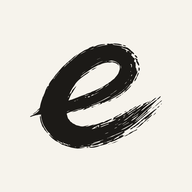
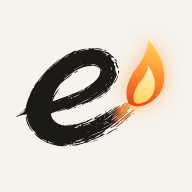
wip: idle autocommit 2026-11-13 20:33:41
Committed automatically after 60s idle by the Stop hook.
Session: 5916c143-eac1-4d57-ac3f-21390d6c581c

Changed region(s): [[0.0938, 0.2188, 0.9062, 0.7812]]

diff --git a/apps/mobile/src/lib/markLit.ts b/apps/mobile/src/lib/markLit.ts
@@ -1,2 +1,2 @@
-export const markLitViewBox = "-40 -80 720 720";
-export const markLitTemplate = "<svg viewBox=\"-40 -80 720 720\" xmlns=\"http://www.w3.org/2000/svg\"><defs><linearGradient id=\"__ID__g\" gradientUnits=\"userSpaceOnUse\" x1=\"470\" y1=\"430\" x2=\"576\" y2=\"318\"><stop offset=\"0\" stop-color=\"#e8461e\"/><stop offset=\"0.45\" stop-color=\"#ff8a2b\"/><stop offset=\"1\" stop-color=\"#ffd25a\"/></linearGradient><linearGradient id=\"__ID__t\" gradientUnits=\"userSpaceOnUse\" x1=\"445\" y1=\"0\" x2=\"495\" y2=\"0\"><stop offset=\"0\" stop-color=\"#000\"/><stop offset=\"1\" stop-color=\"#fff\"/></linearGradient><mask id=\"__ID__c\"><rect x=\"0\" y=\"290\" width=\"600\" height=\"310\" fill=\"url(#__ID__t)\"/></mask><mask id=\"__ID__m\"><g fill=\"#fff\">__MARK__</g></mask><linearGradient id=\"__ID__fl\" gradientUnits=\"userSpaceOnUse\" x1=\"560\" y1=\"336\" x2=\"600\" y2=\"180\"><stop offset=\"0\" stop-color=\"#e8461e\"/><stop offset=\".45\" stop-color=\"#ff8a2b\"/><stop offset=\"1\" stop-color=\"#ffd25a\"/></linearGradient><linearGradient id=\"__ID__co\" gradientUnits=\"userSpaceOnUse\" x1=\"570\" y1=\"332\" x2=\"596\" y2=\"242\"><stop offset=\"0\" stop-color=\"#ffd25a\"/><stop offset=\"1\" stop-color=\"#fff4c2\"/></linearGradient><filter id=\"__ID__b\" x=\"-100%\" y=\"-100%\" width=\"300%\" height=\"300%\"><feGaussianBlur stdDeviation=\"22\"/></filter><filter id=\"__ID__s\" x=\"-100%\" y=\"-100%\" width=\"300%\" height=\"300%\"><feGaussianBlur stdDeviation=\"9\"/></filter></defs><rect width=\"600\" height=\"600\" fill=\"__INK__\" mask=\"url(#__ID__m)\"/><g mask=\"url(#__ID__c)\"><rect width=\"600\" height=\"600\" fill=\"url(#__ID__g)\" mask=\"url(#__ID__m)\"/></g><ellipse cx=\"566\" cy=\"328\" rx=\"34\" ry=\"22\" transform=\"rotate(-38 566 328)\" fill=\"#ffd25a\" opacity=\".85\" filter=\"url(#__ID__s)\"/><g transform=\"translate(560 334) scale(1.85) translate(-566 -336)\"><path d=\"M548 332C534 300 552 266 572 240C586 222 594 200 596 178C622 208 640 246 634 282C630 310 608 330 584 338C570 342 556 340 548 332Z\" fill=\"#ff8a2b\" opacity=\".55\" filter=\"url(#__ID__b)\"/><path d=\"M548 332C534 300 552 266 572 240C586 222 594 200 596 178C622 208 640 246 634 282C630 310 608 330 584 338C570 342 556 340 548 332Z\" fill=\"url(#__ID__fl)\"/><path d=\"M562 330C556 312 566 292 580 276C588 266 594 254 596 242C610 262 616 284 610 302C606 318 594 328 580 332C572 334 566 334 562 330Z\" fill=\"url(#__ID__co)\"/></g></svg>";
+export const markLitViewBox = "0 -60 760 760";
+export const markLitTemplate = "<svg viewBox=\"0 -60 760 760\" xmlns=\"http://www.w3.org/2000/svg\"><defs><linearGradient id=\"__ID__g\" gradientUnits=\"userSpaceOnUse\" x1=\"470\" y1=\"430\" x2=\"576\" y2=\"318\"><stop offset=\"0\" stop-color=\"#e8461e\"/><stop offset=\"0.45\" stop-color=\"#ff8a2b\"/><stop offset=\"1\" stop-color=\"#ffd25a\"/></linearGradient><linearGradient id=\"__ID__t\" gradientUnits=\"userSpaceOnUse\" x1=\"445\" y1=\"0\" x2=\"495\" y2=\"0\"><stop offset=\"0\" stop-color=\"#000\"/><stop offset=\"1\" stop-color=\"#fff\"/></linearGradient><mask id=\"__ID__c\"><rect x=\"0\" y=\"290\" width=\"600\" height=\"310\" fill=\"url(#__ID__t)\"/></mask><mask id=\"__ID__m\"><g fill=\"#fff\">__MARK__</g></mask><linearGradient id=\"__ID__fl\" gradientUnits=\"userSpaceOnUse\" x1=\"560\" y1=\"336\" x2=\"600\" y2=\"180\"><stop offset=\"0\" stop-color=\"#e8461e\"/><stop offset=\".45\" stop-color=\"#ff8a2b\"/><stop offset=\"1\" stop-color=\"#ffd25a\"/></linearGradient><linearGradient id=\"__ID__co\" gradientUnits=\"userSpaceOnUse\" x1=\"570\" y1=\"332\" x2=\"596\" y2=\"242\"><stop offset=\"0\" stop-color=\"#ffd25a\"/><stop offset=\"1\" stop-color=\"#fff4c2\"/></linearGradient><filter id=\"__ID__b\" x=\"-100%\" y=\"-100%\" width=\"300%\" height=\"300%\"><feGaussianBlur stdDeviation=\"22\"/></filter><filter id=\"__ID__s\" x=\"-100%\" y=\"-100%\" width=\"300%\" height=\"300%\"><feGaussianBlur stdDeviation=\"9\"/></filter></defs><rect width=\"600\" height=\"600\" fill=\"__INK__\" mask=\"url(#__ID__m)\"/><g mask=\"url(#__ID__c)\"><rect width=\"600\" height=\"600\" fill=\"url(#__ID__g)\" mask=\"url(#__ID__m)\"/></g><ellipse cx=\"566\" cy=\"328\" rx=\"34\" ry=\"22\" transform=\"rotate(-38 566 328)\" fill=\"#ffd25a\" opacity=\".85\" filter=\"url(#__ID__s)\"/><g transform=\"translate(560 334) scale(1.85) translate(-566 -336)\"><path d=\"M548 332C534 300 552 266 572 240C586 222 594 200 596 178C622 208 640 246 634 282C630 310 608 330 584 338C570 342 556 340 548 332Z\" fill=\"#ff8a2b\" opacity=\".55\" filter=\"url(#__ID__b)\"/><path d=\"M548 332C534 300 552 266 572 240C586 222 594 200 596 178C622 208 640 246 634 282C630 310 608 330 584 338C570 342 556 340 548 332Z\" fill=\"url(#__ID__fl)\"/><path d=\"M562 330C556 312 566 292 580 276C588 266 594 254 596 242C610 262 616 284 610 302C606 318 594 328 580 332C572 334 566 334 562 330Z\" fill=\"url(#__ID__co)\"/></g></svg>";

diff --git a/apps/mobile/src/components/ui.tsx b/apps/mobile/src/components/ui.tsx
@@ -29,7 +29,7 @@ export function Wordmark({ size = 22 }: { size?: number }) {
   const { c } = useTheme();
   return (
     <View style={{ flexDirection: "row", alignItems: "center", gap: 4 }}>
-      <Mark size={size * 1.52} />
+      <Mark size={size * 1.6} />
       <Text style={{ fontFamily: font.display.semibold, fontSize: size, lineHeight: size * 1.2, color: c.ink, letterSpacing: -size * 0.045 }}>{brand.name}</Text>
     </View>
   );
